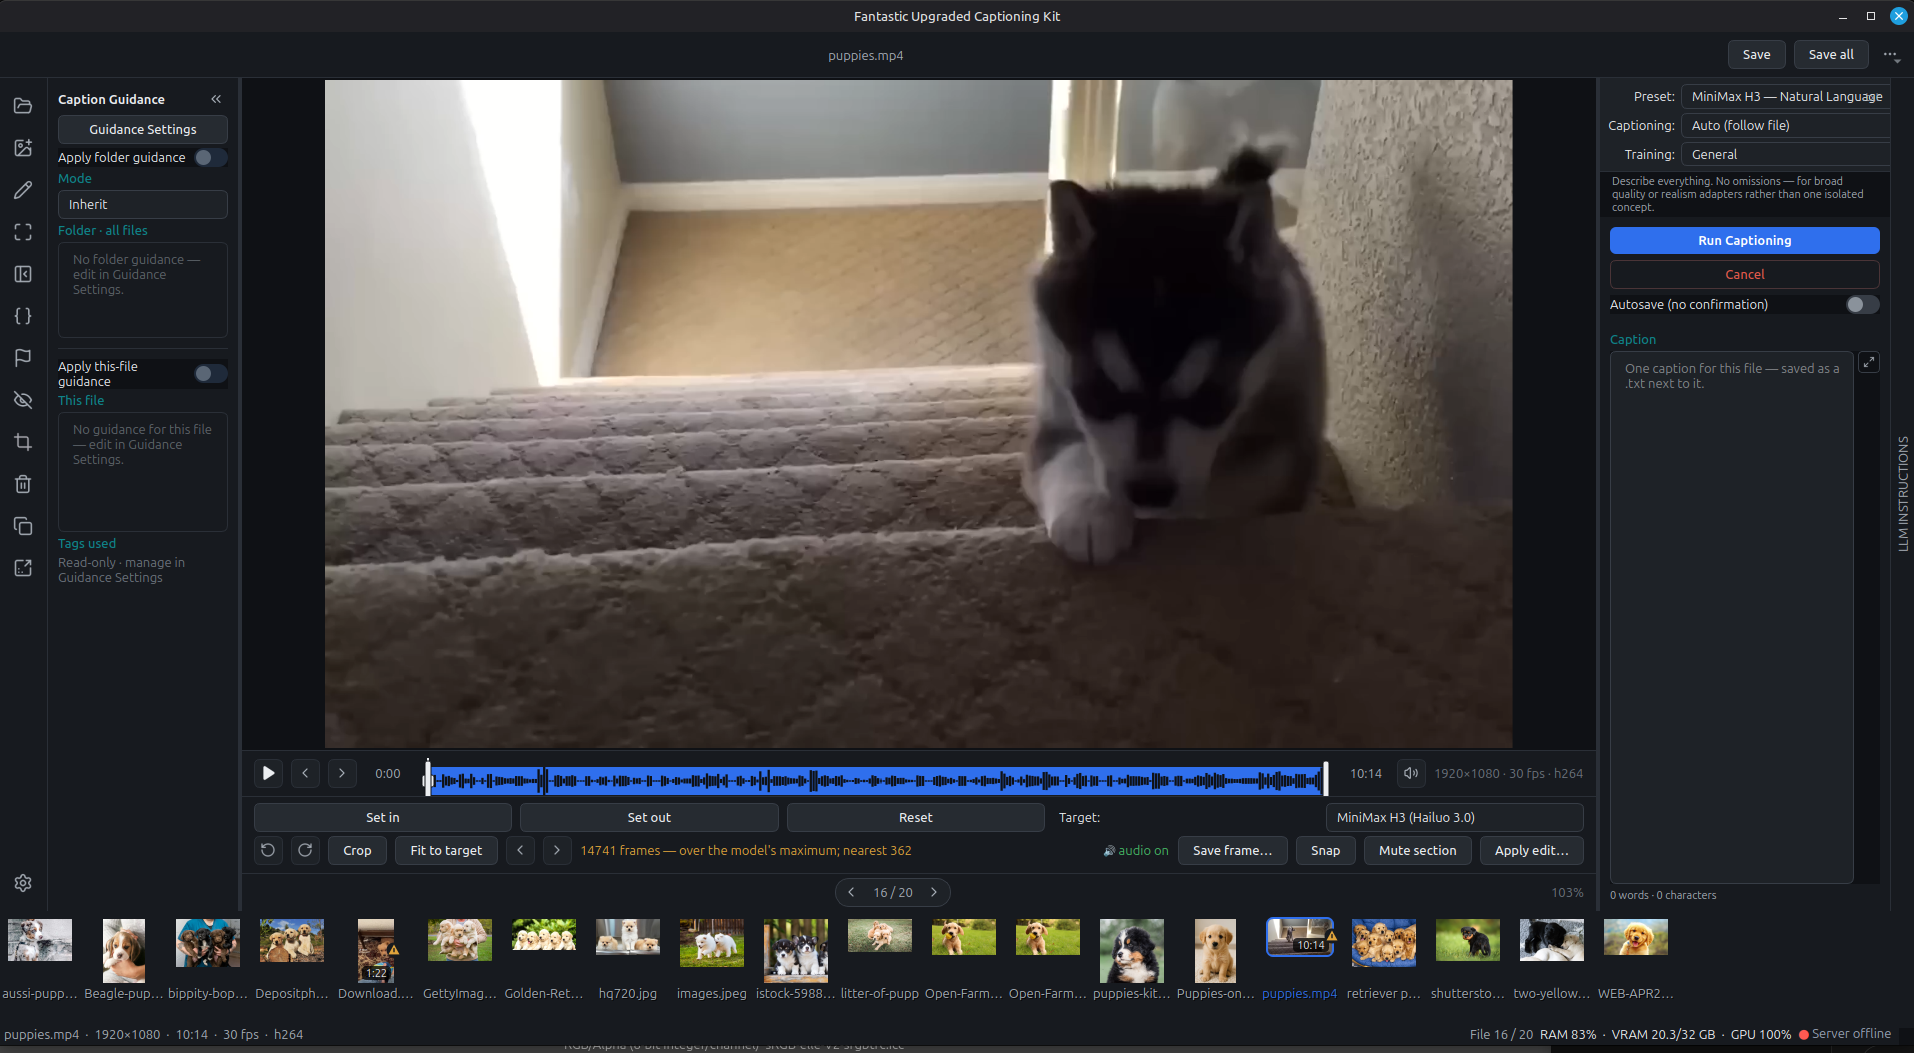
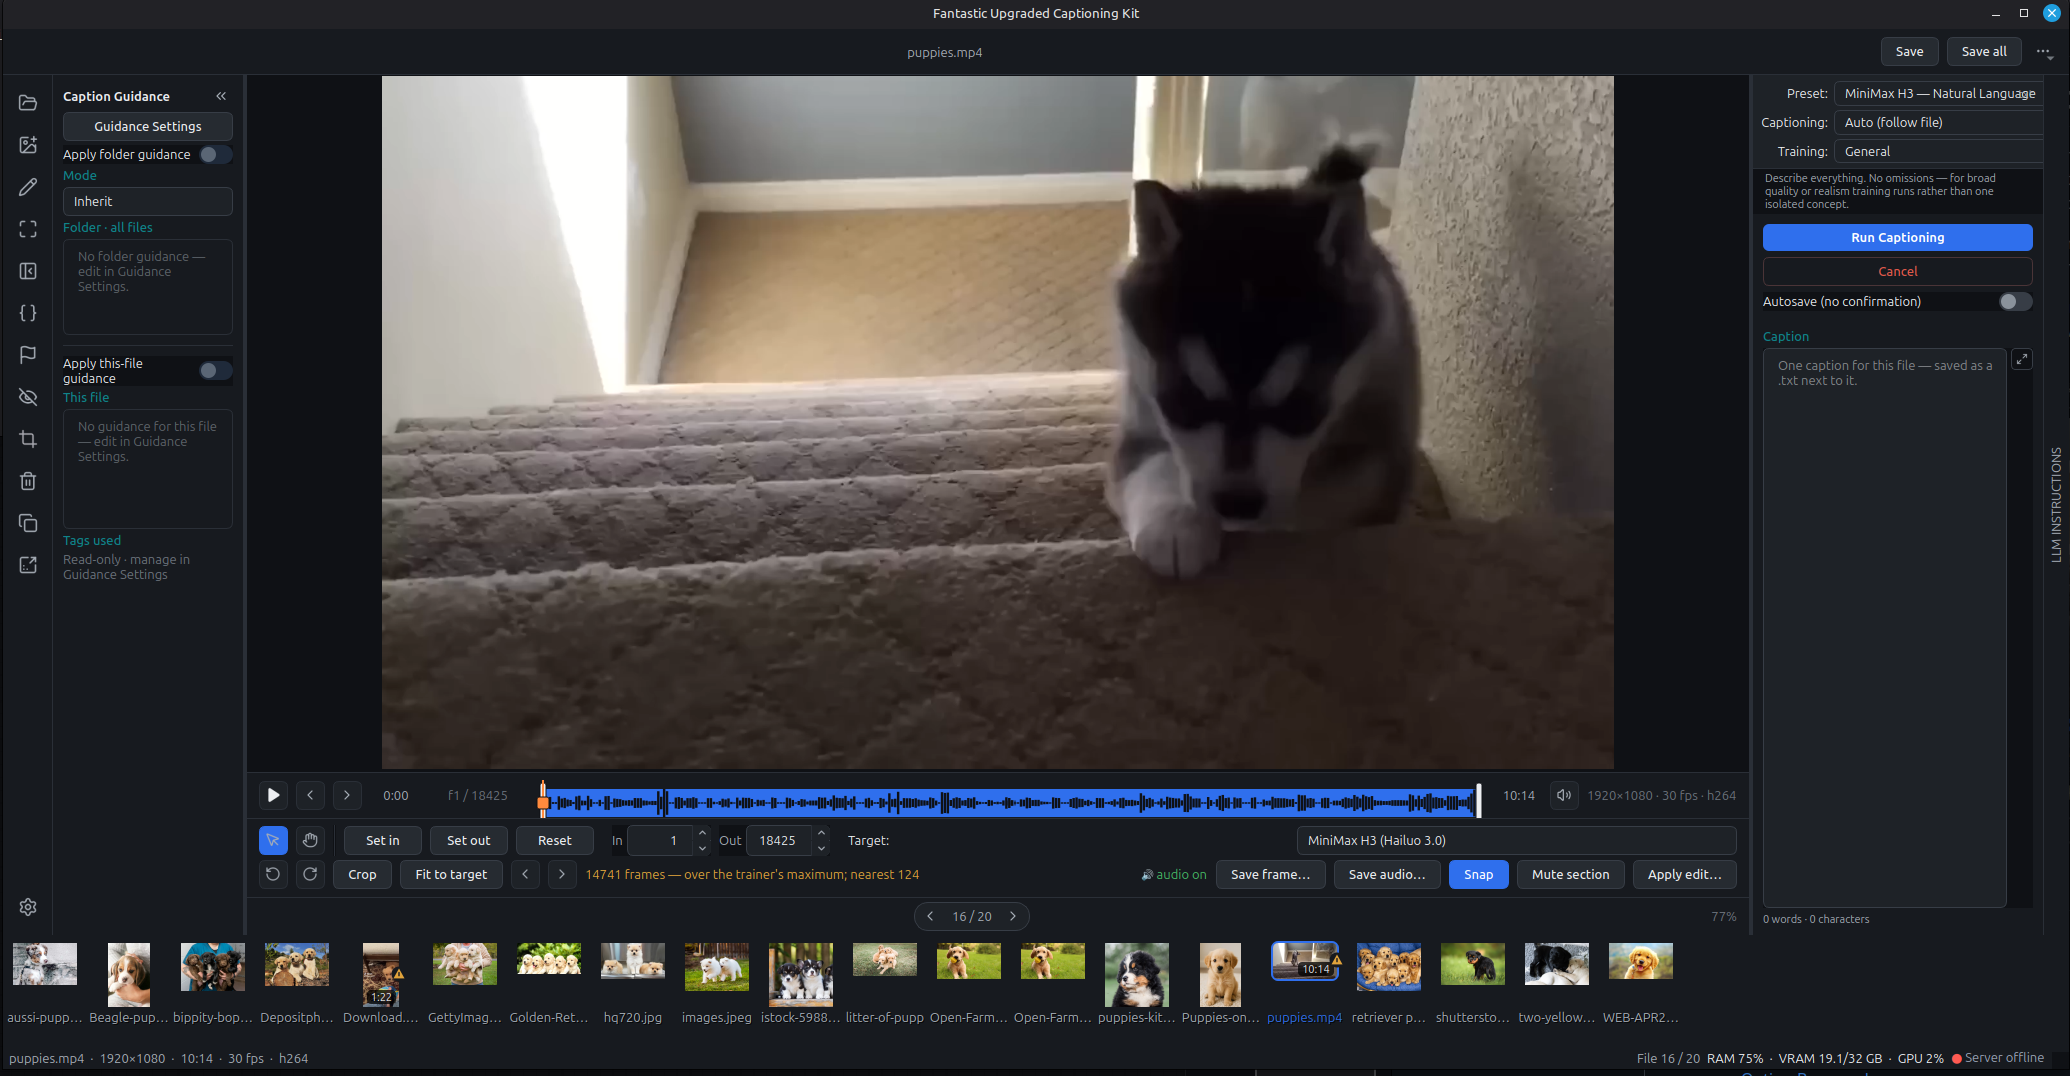
README: refresh the intro screenshot

diff --git a/README.md b/README.md
@@ -13,7 +13,7 @@ Auto-captioning is optional and runs against an OpenAI-compatible model server
 that **you** control (local llama.cpp, LM Studio, vLLM, or Ollama). Nothing
 leaves your machine except the requests to the endpoint you configure.
 
-![Fantastic Upgraded Captioning Kit screenshot](captioningKitScreenshot.png)
+![Video editing with a MiniMax H3 target armed — the trim bar flags a clip that's over the trainer's frame maximum](captioningKitScreenshot.png)
 
 ## Contents
 
